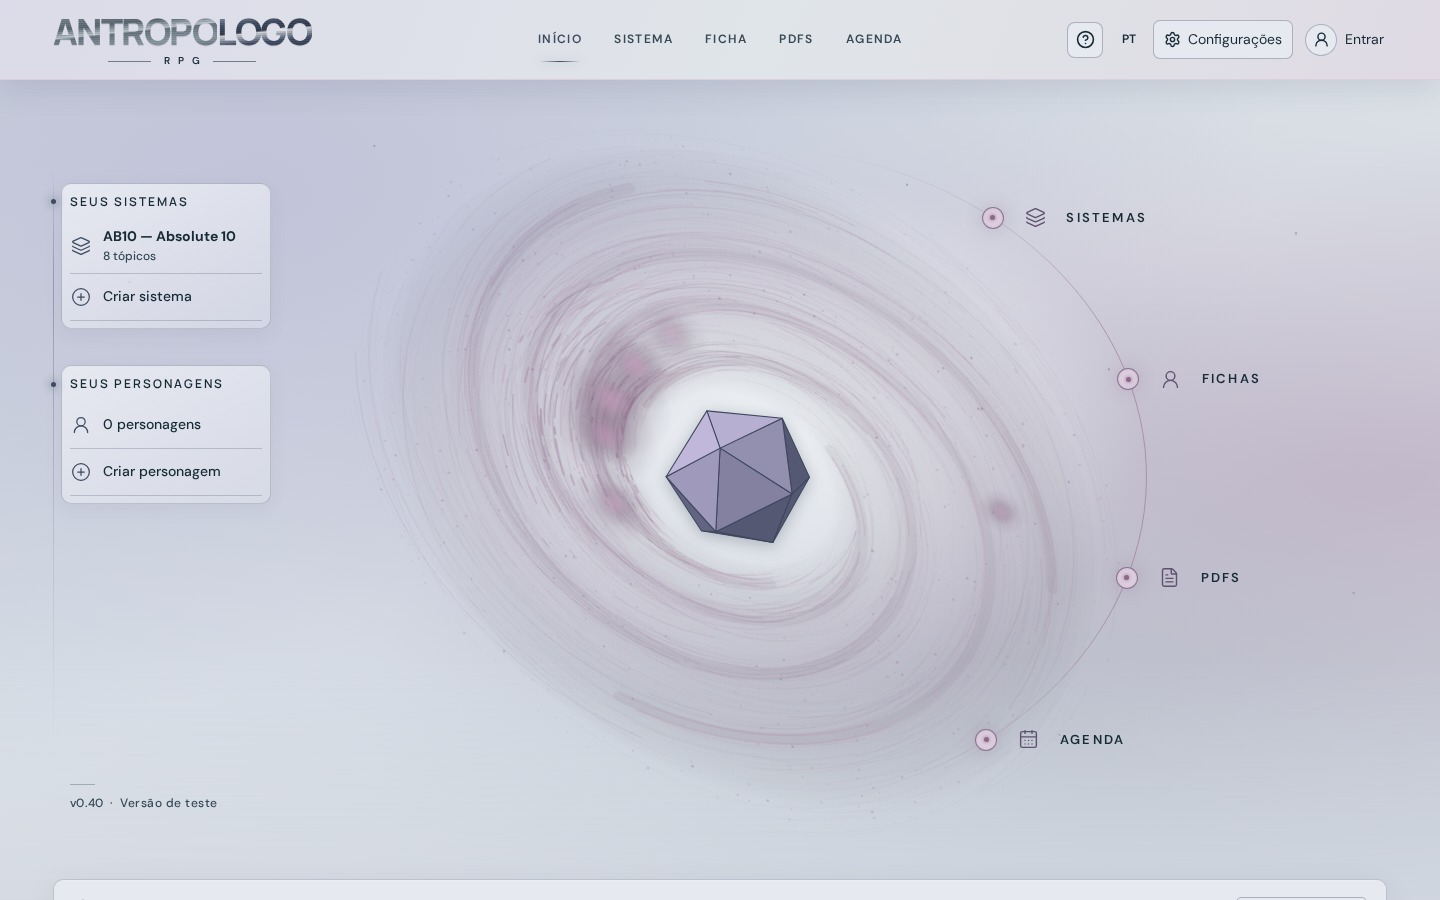
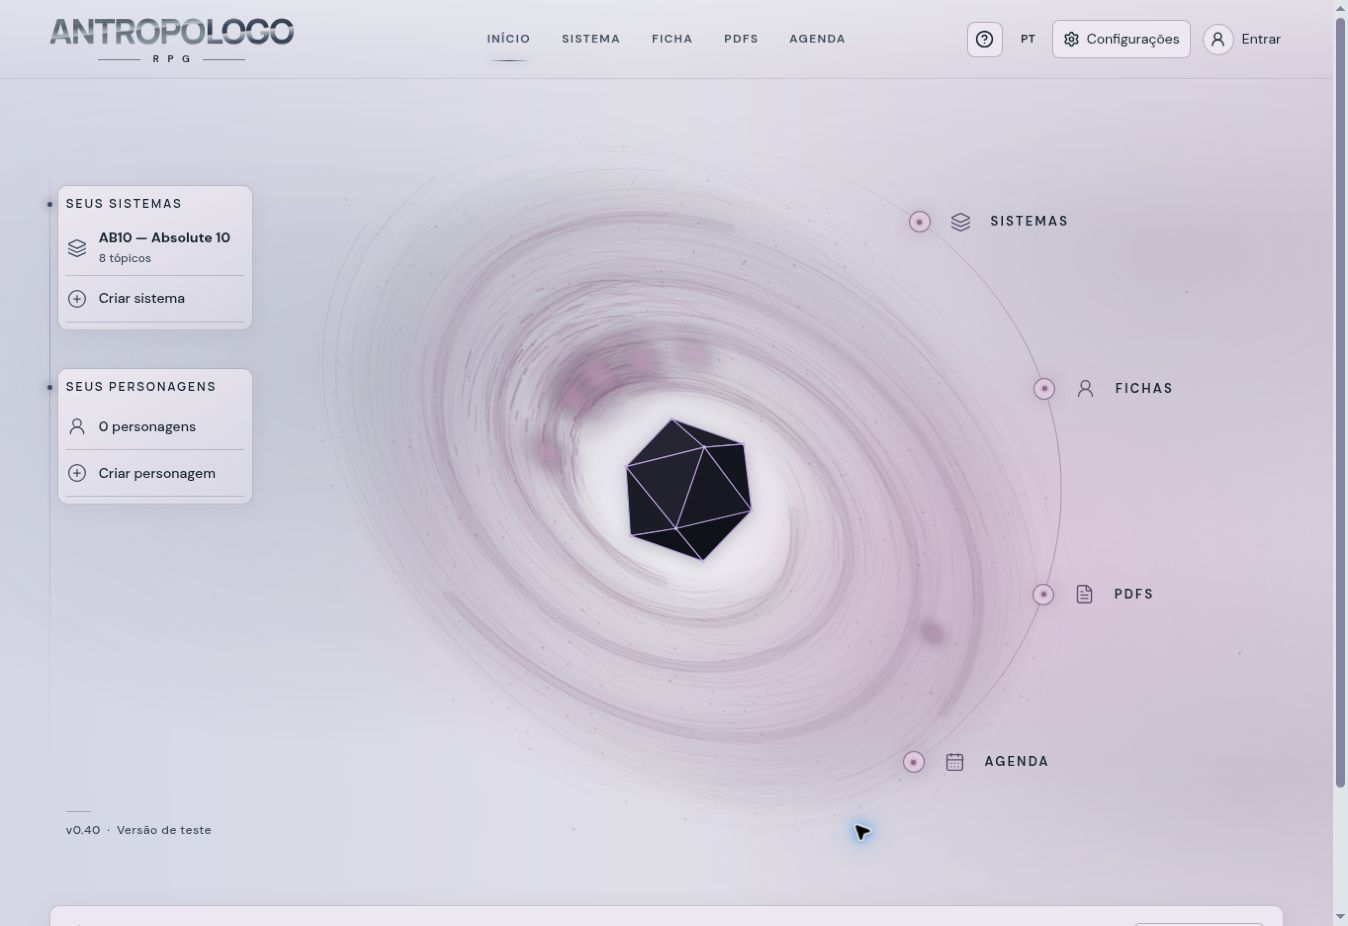
Atualiza a galeria do refinamento orbital

diff --git a/docs/home-orbital-v040/README.md b/docs/home-orbital-v040/README.md
@@ -1,13 +1,27 @@
 # Home Orbital v0.40
 
-Capturas da prévia isolada em Chromium a 1440 × 900, com sessão de visitante e dados locais de teste. O site público segue identificado pela publicação 89.
+Capturas da aplicação em prévia no Chromium, com sessão de visitante. As
+imagens de desktop medem 1348 × 926. As de celular usam um viewport de
+390 × 844. A revisão parte da publicação 90 do ChatGPT Sites.
 
-| Modo e par de paletas | Captura |
+## Comparativo em Ametista e Rosa
+
+| Base da publicação 90 | Prévia do refinamento |
 | --- | --- |
-| Claro · Floresta e Dourado | [Abrir](home-claro-floresta-dourado.jpg) |
-| Claro · Ametista e Rosa | [Abrir](home-claro-ametista-rosa.jpg) |
-| Escuro · Floresta e Dourado | [Abrir](home-escuro-floresta-dourado.jpg) |
-| Escuro · Safira e Ciano | [Abrir](home-escuro-safira-ciano.jpg) |
+| ![Home escura antes do refinamento](antes-escuro-ametista-rosa.jpg) | ![Home escura com horizonte compartilhado e D20 escuro](home-escuro-ametista-rosa.jpg) |
+
+## Paletas e modos
+
+| Tela | Modo e paletas | Captura |
+| --- | --- | --- |
+| Desktop | Claro · Floresta e Dourado | [Abrir](home-claro-floresta-dourado.jpg) |
+| Desktop | Claro · Ametista e Rosa | [Abrir](home-claro-ametista-rosa.jpg) |
+| Desktop | Escuro · Floresta e Dourado | [Abrir](home-escuro-floresta-dourado.jpg) |
+| Desktop | Escuro · Ouro e Cobre | [Abrir](home-escuro-ouro-cobre.jpg) |
+| Desktop | Escuro · Âmbar e Menta | [Abrir](home-escuro-ambar-menta.jpg) |
+| Desktop | Escuro · Safira e Ciano | [Abrir](home-escuro-safira-ciano.jpg) |
+| Celular | Escuro · Safira e Violeta | [Abrir](mobile-escuro-safira-violeta.jpg) |
+| Celular | Claro · Floresta e Dourado | [Abrir](mobile-claro-floresta-dourado.jpg) |
 
 ## D20 em rotação
 
@@ -15,10 +29,7 @@ Capturas da prévia isolada em Chromium a 1440 × 900, com sessão de visitante 
 | --- | --- | --- | --- |
 | ![D20 no quadro 1](d20-01.jpg) | ![D20 no quadro 2](d20-02.jpg) | ![D20 no quadro 3](d20-03.jpg) | ![D20 no quadro 4](d20-04.jpg) |
 
-Os quatro quadros mostram o mesmo dado no centro da espiral. A malha tem 20 faces opacas. A projeção omite as faces traseiras.
+O dado permanece no centro da espiral. Os quatro quadros mostram as faces
+opacas, a luz nas arestas e vértices e orientações distintas do icosaedro.
 
-[Configurações → Aparência](aparencia.jpg) · [Configurações → Sobre](sobre.jpg)
-
-A validação no navegador conferiu os dois modos, a troca de paletas, a recarga, a opacidade, a animação, os atalhos orbitais e o movimento reduzido.
-
-[Implementação da Home Orbital](../../aplicacao/v0.40/docs/home-orbital-v040.md)
+[Configurações → Aparência](aparencia.jpg) · [Implementação e testes](../../aplicacao/v0.40/docs/home-orbital-v040.md)

diff --git a/README.md b/README.md
@@ -17,7 +17,7 @@ O código veio da pasta `projeto/` de `ANTROPOLOGO_RPG_v0.38_backup_completo.zip
 
 ## Aparência da Home Orbital
 
-Veja as [capturas da prévia da v0.40](docs/home-orbital-v040/README.md), com os modos claro e escuro, as paletas primária e secundária e a aba Sobre.
+Veja as [capturas da prévia da v0.40](docs/home-orbital-v040/README.md), com o comparativo da publicação 90, as combinações de cores, os dois modos e o D20 em rotação.
 
 ## Desenvolver a aplicação
 
